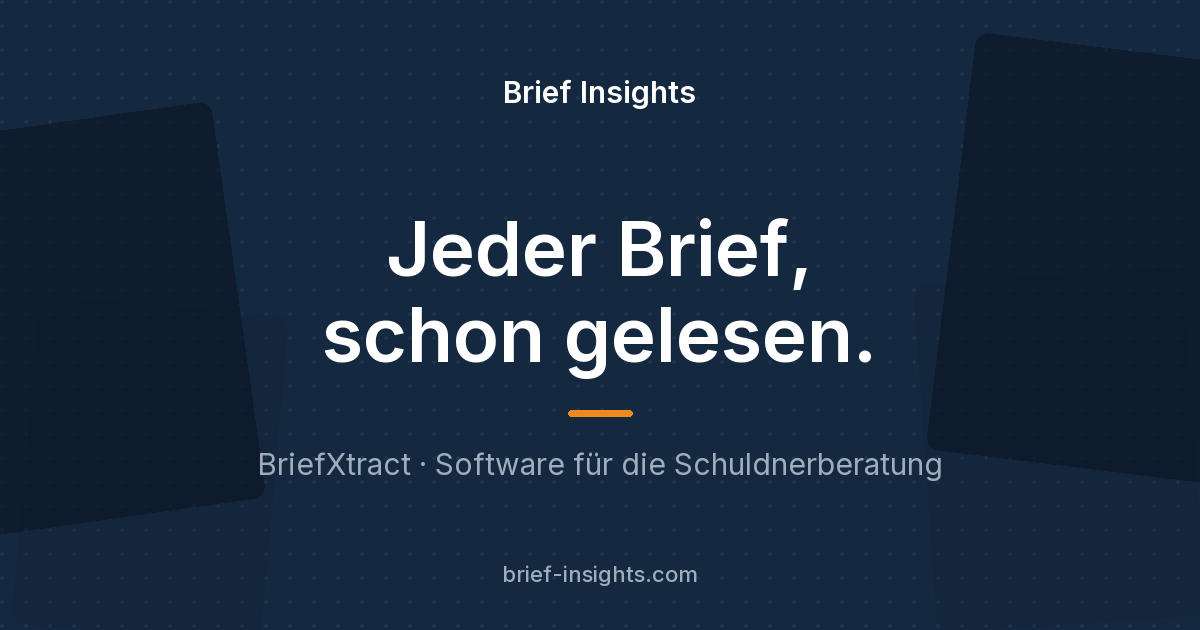
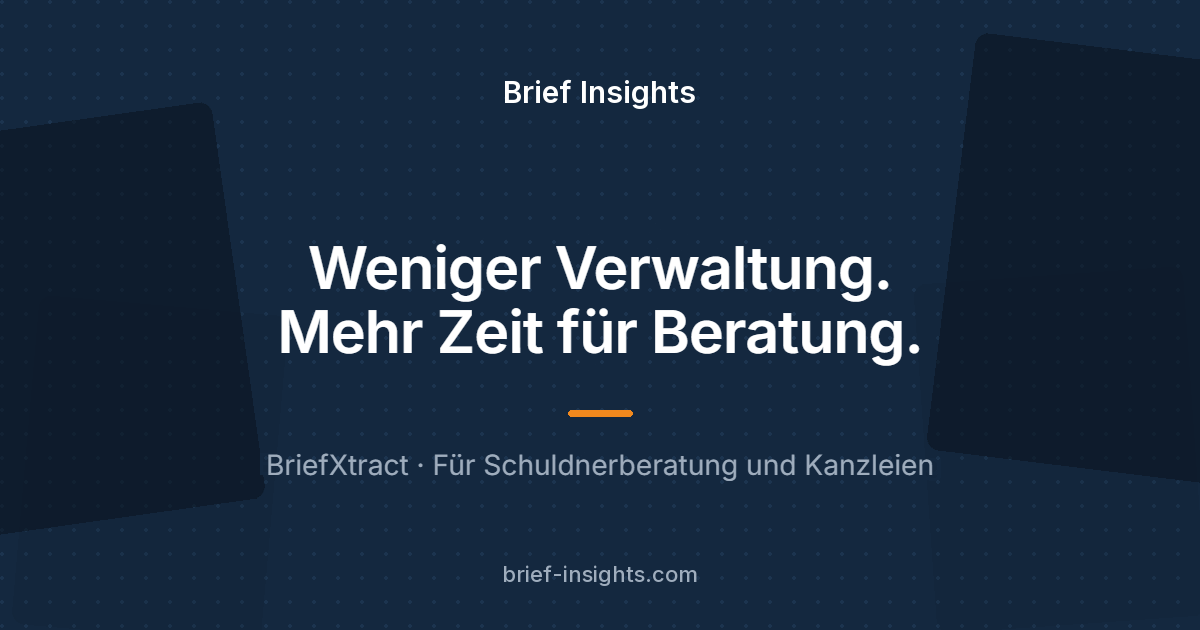
content: apply the native-speaker review of the German texts (KAN-131)
German: all 133 "Change" proposals from the review, taken 1:1 from the
review table by key, with three agreed exceptions:
- home.hero.subtitle without "sekundenschnell" (speed not yet measured)
- results.hero.title keeps "könnte" (savings not yet measured)
- five page titles/descriptions shortened to the 70/170-character
  search limits, keeping the reviewer's wording and intent

The Home headline becomes "Weniger Verwaltung. Mehr Zeit für Beratung.";
the German share image (og-de.png) and its alt text follow it, and the
image tagline now names law firms too.

English: the review's 21 matching fixes (AWO and church data protection,
"Not included", 0 hours / €0, UG (haftungsbeschränkt), SchuldnerAtlas
2025 figure, AI-generated images, email error, checking as an option).
cta.default.body is held with its German counterpart (open question on
demos with real letters).

The 12 "Clarify" rows are unchanged pending team decisions.

Changed region(s): [[0.2158, 0.3317, 0.7708, 0.6032], [0.2158, 0.7238, 0.8017, 0.754]]

diff --git a/src/test/routes.test.tsx b/src/test/routes.test.tsx
@@ -105,7 +105,7 @@ describe("demo request dialog", () => {
     fireEvent.change(within(dialog).getByLabelText("Full name"), { target: { value: "Alex Example" } });
     fireEvent.change(within(dialog).getByLabelText("Work email"), { target: { value: "alex@centre" } });
     submit();
-    expect(within(dialog).getByText("Enter an email address in the format name@your-organisation.de.")).toBeInTheDocument();
+    expect(within(dialog).getByText("Enter a valid email address, e.g. name@your-organisation.de.")).toBeInTheDocument();
 
     fireEvent.change(within(dialog).getByLabelText("Work email"), { target: { value: "alex@centre.de" } });
     fireEvent.change(within(dialog).getByLabelText("Organisation"), { target: { value: "Beratungsstelle Musterstadt" } });
